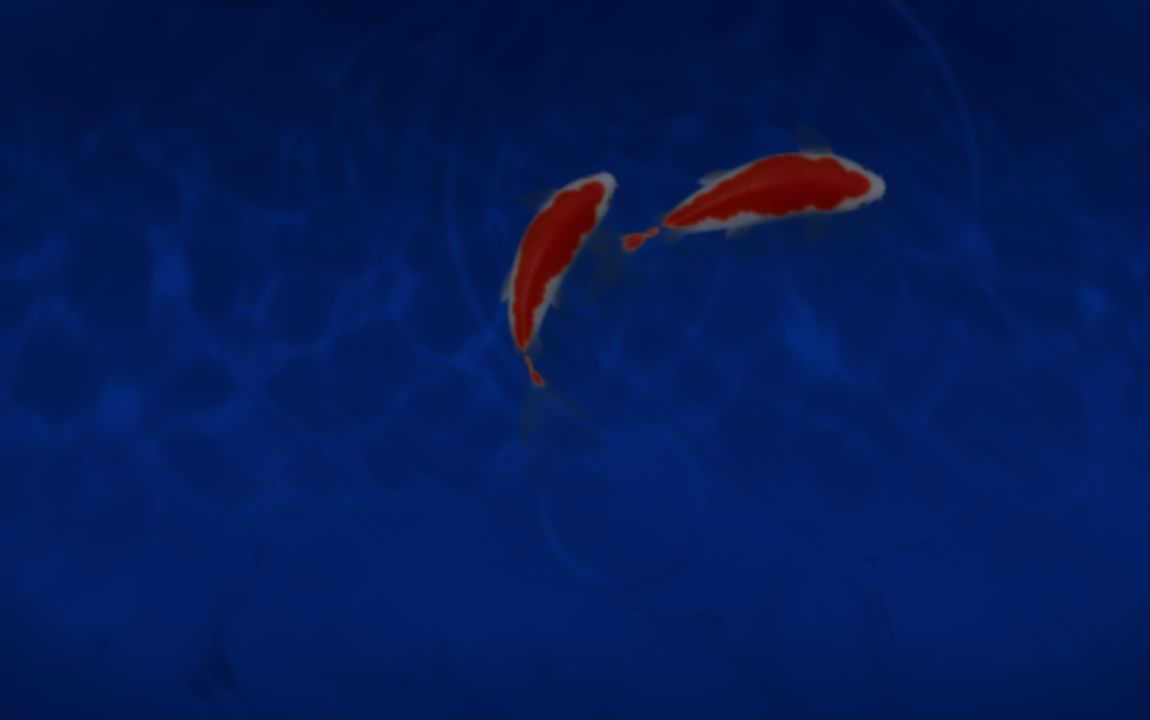
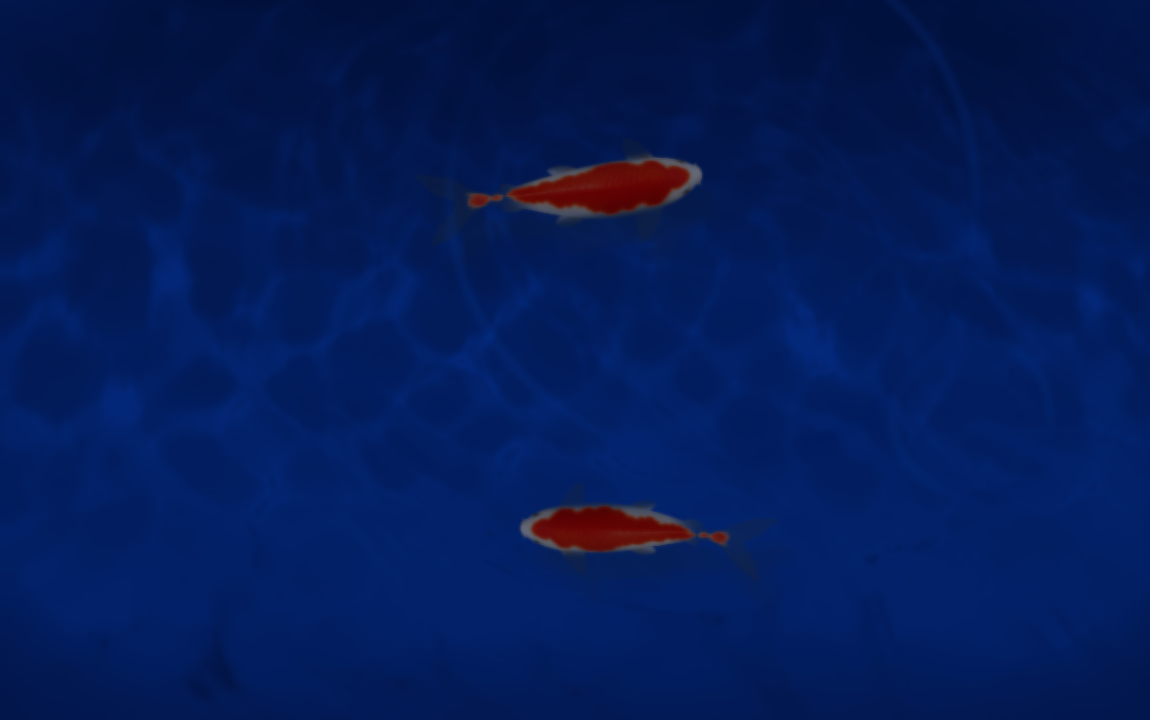
调整锦鲤浅色水面为中性白并优化游动避让与尺寸

Changed region(s): [[0.3957, 0.1833, 0.7913, 0.55], [0.4565, 0.7028, 0.6391, 0.7944], [0.6391, 0.7639, 0.6696, 0.7944]]

diff --git a/src/preload/home-koi/simulation.js b/src/preload/home-koi/simulation.js
@@ -36,13 +36,14 @@ export class Simulation {
     this.fish.length = Math.min(this.fish.length, count);
     while (this.fish.length < count) {
       const i = this.fish.length;
-      const x = (i === 0 ? 0.45 : i === 1 ? 0.65 : this.range(0.2, 0.8)) * this.width;
-      const y = (i === 0 ? 0.42 : i === 1 ? 0.86 : this.range(0.2, 0.8)) * this.height;
+      const x = (i === 0 ? 0.48 : i === 1 ? 0.64 : this.range(0.2, 0.8)) * this.width;
+      const y = (i === 0 ? 0.27 : i === 1 ? 0.75 : this.range(0.2, 0.8)) * this.height;
       const fish={
-        x, y, angle: i === 0 ? -0.55 : -2.0, turn: 0,
+        x, y, angle: i === 0 ? -0.12 : -Math.PI + 0.12, turn: 0,
+        lane: i % 2 === 0 ? 0.26 : 0.77,
         phase: this.range(0, TAU), rhythm: this.range(0.87, 1.12),
         wander: this.range(0, TAU), cycle: this.range(0, TAU),
-        cyclePeriod: this.range(3.8,7.2), effort: 0.5, velocity: 90,
+        cyclePeriod: this.range(5.5,8.5), effort: 0.5, velocity: 66,
         size: i === 0 ? 1 : this.range(0.87, 0.97),
         tx: this.range(0.15, 0.85) * this.width,
         ty: this.range(0.12, 0.88) * this.height,
@@ -63,8 +64,8 @@ export class Simulation {
     // Keep destinations in open water. Repeated forward targets on the edge
     // would trap a smooth-turning fish in a perimeter orbit.
     fish.tx=clamp(fish.x+Math.cos(angle)*distance,this.width*0.25,this.width*0.75);
-    fish.ty=clamp(fish.y+Math.sin(angle)*distance,this.height*0.25,this.height*0.75);
-    fish.retarget=this.range(6,11);
+    fish.ty=clamp(fish.y+Math.sin(angle)*distance,this.height*(fish.lane-0.10),this.height*(fish.lane+0.10));
+    fish.retarget=this.range(8,13);
   }
 
   resize(width, height) {
@@ -117,11 +118,24 @@ export class Simulation {
       const margin=Math.max(16,130*scale);
       dx+=1.8*(Math.pow(Math.max(0,(margin-aheadX)/margin),2)-Math.pow(Math.max(0,(aheadX-this.width+margin)/margin),2));
       dy+=1.8*(Math.pow(Math.max(0,(margin-aheadY)/margin),2)-Math.pow(Math.max(0,(aheadY-this.height+margin)/margin),2));
+      // Broad, overlapping home ranges let each fish wander without repeatedly
+      // steering both toward the middle of the pond.
+      dy+=clamp((fish.lane*this.height-fish.y)/(this.height*0.18),-1.7,1.7);
+      let encounter=0;
       for(const other of this.fish) {
         if(other===fish) continue;
-        const px=fish.x-other.x,py=fish.y-other.y,distance=Math.hypot(px,py);
-        const repel=Math.max(0,1-distance/(145*scale));
-        if(distance>0.001) { dx+=px/distance*repel*0.55;dy+=py/distance*repel*0.55; }
+        // Look ahead against the whole other body, not just its head. A smooth
+        // steering force starts before the turn radius makes avoidance too late.
+        const lead=fish.velocity*scale*1.8;
+        const fx=fish.x+Math.cos(fish.angle)*lead,fy=fish.y+Math.sin(fish.angle)*lead;
+        let nearest=Infinity,px=0,py=0;
+        for(let k=2;k<=22;k+=4) {
+          const bx=fx-other.spine[k*4],by=fy-other.spine[k*4+1],distance=Math.hypot(bx,by);
+          if(distance<nearest) { nearest=distance;px=bx;py=by; }
+        }
+        const repel=Math.max(0,1-nearest/(230*scale));
+        encounter=Math.max(encounter,repel);
+        if(nearest>0.001) { dx+=px/nearest*repel*2.4;dy+=py/nearest*repel*2.4; }
       }
       if (this.pointer) {
         const px = fish.x - this.pointer.x, py = fish.y - this.pointer.y;
@@ -129,31 +143,32 @@ export class Simulation {
         const repel = Math.max(0, 1 - distance / (160 * scale));
         if(distance>0.001) { dx+=px/distance*repel*1.2;dy+=py/distance*repel*1.2; }
       }
-      const exploration=Math.sin(this.time*0.37+fish.wander)*0.13
-        +Math.sin(this.time*0.81+fish.wander*1.7)*0.065;
+      const exploration=Math.sin(this.time*0.23+fish.wander)*0.10
+        +Math.sin(this.time*0.47+fish.wander*1.7)*0.045;
       const wanted=Math.atan2(dy,dx)+exploration;
       let headingError=angleDelta(fish.angle,wanted);
       // A target almost directly behind has two equivalent turn directions.
       // Keep the current arc instead of reversing yaw when that angle crosses π.
       if(Math.abs(headingError)>2.2&&Math.abs(fish.turn)>0.12) headingError=Math.sign(fish.turn)*Math.abs(headingError);
-      const wantedTurn=clamp(headingError*0.85,-0.66,0.66);
-      fish.turn+=clamp(wantedTurn-fish.turn,-0.8*motionDt,0.8*motionDt);
+      const wantedTurn=clamp(headingError*0.70,-0.56,0.56);
+      fish.turn+=clamp((wantedTurn-fish.turn)*(1-Math.exp(-motionDt/0.45)),-0.6*motionDt,0.6*motionDt);
       fish.angle+=fish.turn*motionDt;
       fish.cycle+=motionDt*TAU/fish.cyclePeriod;
-      if(fish.cycle>=TAU) { fish.cycle%=TAU;fish.cyclePeriod=this.range(3.8,7.2); }
-      fish.effort=Math.pow(0.5+0.5*Math.sin(fish.cycle),4.0);
+      if(fish.cycle>=TAU) { fish.cycle%=TAU;fish.cyclePeriod=this.range(5.5,8.5); }
+      fish.effort=Math.pow(0.5+0.5*Math.sin(fish.cycle),3.0);
       // Ease off propulsion near an edge so the head can complete a smaller arc.
       // The same velocity damping preserves a continuous glide into and out of it.
       const clearance=Math.min(fish.x,this.width-fish.x,fish.y,this.height-fish.y);
       const edgePace=clamp(clearance/(160*scale),0.35,1);
-      const targetVelocity=(62+85*fish.effort)*fish.rhythm*edgePace;
-      const response=targetVelocity>fish.velocity?0.42:0.95;
+      const turnPace=1-Math.min(0.35,Math.abs(fish.turn)*0.55);
+      const targetVelocity=(52+48*fish.effort)*fish.rhythm*edgePace*turnPace*(1-encounter*0.35);
+      const response=targetVelocity>fish.velocity?0.85:1.2;
       const change=(targetVelocity-fish.velocity)*(1-Math.exp(-motionDt/response));
-      fish.velocity+=clamp(change,-110*motionDt,110*motionDt);
+      fish.velocity+=clamp(change,-65*motionDt,65*motionDt);
       const velocity = fish.velocity * scale * speed;
       fish.x += Math.cos(fish.angle) * velocity * dt;
       fish.y += Math.sin(fish.angle) * velocity * dt;
-      fish.phase=(fish.phase+motionDt*TAU*(0.52+1.10*fish.effort)*fish.rhythm)%TAU;
+      fish.phase=(fish.phase+motionDt*TAU*(0.40+0.75*fish.effort)*fish.rhythm)%TAU;
       updateSpine(fish,FISH_LENGTH*fish.size,motionDt);
     }
   }

diff --git a/test/home-theme-renderer-browser.test.js b/test/home-theme-renderer-browser.test.js
@@ -55,17 +55,16 @@ it('renders the Koi Pond assets offline, moves fish and water, changes appearanc
       const stats = () => {
         const bytes = new Uint8Array(canvas.width * canvas.height * 4)
         gl.readPixels(0, 0, canvas.width, canvas.height, gl.RGBA, gl.UNSIGNED_BYTE, bytes)
-        let luma = 0, blue = 0, red = 0, paleCyan = 0, hash = 2166136261
+        let luma = 0, blue = 0, red = 0, neutralWater = 0, hash = 2166136261
         for (let i = 0; i < bytes.length; i += 4) {
           luma += .2126 * bytes[i] + .7152 * bytes[i + 1] + .0722 * bytes[i + 2]
           blue += bytes[i + 2] > bytes[i] * 1.3 ? 1 : 0
           red += bytes[i] > bytes[i + 2] * 1.2 && bytes[i] > 90 ? 1 : 0
-          paleCyan += bytes[i] >= 195 && bytes[i + 1] >= 215 && bytes[i + 2] >= 215 &&
-            bytes[i + 1] >= bytes[i] && bytes[i + 2] >= bytes[i] &&
-            Math.max(bytes[i], bytes[i + 1], bytes[i + 2]) - Math.min(bytes[i], bytes[i + 1], bytes[i + 2]) <= 45 ? 1 : 0
+          neutralWater += Math.min(bytes[i], bytes[i + 1], bytes[i + 2]) >= 210 &&
+            Math.max(bytes[i], bytes[i + 1], bytes[i + 2]) - Math.min(bytes[i], bytes[i + 1], bytes[i + 2]) <= 3 ? 1 : 0
           hash = Math.imul(hash ^ bytes[i], 16777619)
         }
-        return { luma: luma / (bytes.length / 4), blue, red, paleCyanFraction: paleCyan / (bytes.length / 4), hash }
+        return { luma: luma / (bytes.length / 4), blue, red, neutralWaterFraction: neutralWater / (bytes.length / 4), hash }
       }
       renderer.render(0, false)
       const first = stats()
@@ -86,7 +85,7 @@ it('renders the Koi Pond assets offline, moves fish and water, changes appearanc
     })
     expect(result.backend).toBe('webgl')
     expect(result.first.luma).toBeGreaterThan(210)
-    expect(result.first.paleCyanFraction).toBeGreaterThan(.85)
+    expect(result.first.neutralWaterFraction).toBeGreaterThan(.85)
     expect(result.first.red).toBeGreaterThan(1_000)
     expect(result.moving.hash).not.toBe(result.first.hash)
     expect(result.dark.luma).toBeLessThan(result.moving.luma * .65)

diff --git a/src/preload/home-koi/shaders.js b/src/preload/home-koi/shaders.js
@@ -25,9 +25,9 @@ void main() {
   color = mix(color, vec3(0.58, 0.96, 0.96), pow(1.0-v_uv.y, 8.0) * 0.20);
   color *= vec3(0.90, 0.97, 1.025);
   // Grade only the water, before compositing the red-and-white fish. Light
-  // mode keeps low-contrast cyan-white caustics beneath dark interface text.
+  // mode keeps neutral pearl-white caustics beneath dark interface text.
   float waterLight = clamp(color.g * 0.65 + color.b * 0.35 - color.r * 0.55, 0.0, 1.0);
-  vec3 dayWater = mix(vec3(0.80, 0.89, 0.90), vec3(0.96, 0.99, 0.985), pow(waterLight, 0.8));
+  vec3 dayWater = mix(vec3(0.87), vec3(0.99), pow(waterLight, 0.8));
   vec3 nightWater = mix(vec3(0.008, 0.055, 0.20), vec3(0.025, 0.31, 0.72), pow(waterLight, 1.25));
   color = mix(dayWater, nightWater, smoothstep(0.0, 0.78, u_dark));
   gl_FragColor = vec4(color, 1.0);
@@ -127,9 +127,10 @@ void main() {
   color += texture2D(u_scene, uv + vec2(0.0, blur.y)).rgb * 0.15;
   color += texture2D(u_scene, uv - vec2(0.0, blur.y)).rgb * 0.15;
   float shine = crests * u_strength;
-  vec3 crestColor = mix(vec3(0.94,1.0,0.98), vec3(0.035,0.38,0.80), smoothstep(0.0,0.78,u_dark));
+  vec3 crestColor = mix(vec3(0.99), vec3(0.035,0.38,0.80), smoothstep(0.0,0.78,u_dark));
   color = mix(color, crestColor, clamp(shine*0.26,0.0,0.34));
-  color -= vec3(0.025,0.05,0.06)*max(0.0,-dot(gradient,vec2(-0.5,0.6)))*0.45;
+  vec3 rippleShade = mix(vec3(0.035), vec3(0.025,0.05,0.06), smoothstep(0.0,0.78,u_dark));
+  color -= rippleShade*max(0.0,-dot(gradient,vec2(-0.5,0.6)))*0.45;
   color *= u_brightness;
   color = mix(color, color * vec3(0.32, 0.46, 0.70), u_dark);
   gl_FragColor = vec4(color, 1.0);

diff --git a/test/home-koi-simulation.test.js b/test/home-koi-simulation.test.js
@@ -1,0 +1,26 @@
+import {expect,it} from 'vitest'
+import {Simulation} from '../src/preload/home-koi/simulation.js'
+
+it.each([[1150,720],[920,600],[760,860]])('keeps two swimming bodies apart without abrupt turns at %sx%s', (width,height)=>{
+  for(const seed of [1,7,42,20261021]) {
+    const pond=new Simulation({width,height,seed})
+    let close=0,samples=0,travel=0
+    for(let frame=0;frame<60*180;frame++) {
+      const before=pond.fish.map(f=>({x:f.x,y:f.y,velocity:f.velocity,turn:f.turn}))
+      pond.step(1/60)
+      pond.fish.forEach((fish,i)=>{
+        expect(Math.abs(fish.velocity-before[i].velocity)*60).toBeLessThanOrEqual(65.001)
+        expect(Math.abs(fish.turn-before[i].turn)*60).toBeLessThanOrEqual(.601)
+        expect(Number.isFinite(fish.x+fish.y+fish.phase)).toBe(true)
+        travel+=Math.hypot(fish.x-before[i].x,fish.y-before[i].y)
+      })
+      if(frame%12)continue
+      const [a,b]=pond.fish;let distance=Infinity
+      for(let i=3;i<=21;i+=2)for(let j=3;j<=21;j+=2)distance=Math.min(distance,Math.hypot(a.spine[i*4]-b.spine[j*4],a.spine[i*4+1]-b.spine[j*4+1]))
+      if(distance<48)close++
+      samples++
+    }
+    expect(close/samples,`seed ${seed}: ${close} close samples`).toBeLessThan(.035)
+    expect(travel).toBeGreaterThan(5000)
+  }
+},20000)

diff --git a/src/preload/home-koi-renderer.ts b/src/preload/home-koi-renderer.ts
@@ -51,7 +51,7 @@ export function createKoiRenderer(canvas: HTMLCanvasElement, options: { dark: bo
   }
   canvas.addEventListener('webglcontextlost', contextLost)
   canvas.dataset.homeKoiState = 'loading'
-  context.clearColor(dark ? .01 : .88, dark ? .08 : .94, dark ? .25 : .94, 1)
+  context.clearColor(dark ? .01 : .94, dark ? .08 : .94, dark ? .25 : .94, 1)
   context.clear(context.COLOR_BUFFER_BIT)
   for (const image of images) {
     image.onload = loaded

diff --git a/src/preload/home-koi/spine.js b/src/preload/home-koi/spine.js
@@ -1,5 +1,5 @@
 export const SPINE_POINTS = 25;
-export const FISH_LENGTH = 365;
+export const FISH_LENGTH = 310;
 const angleDelta = (a,b) => Math.atan2(Math.sin(b-a),Math.cos(b-a));
 const smoothstep = (a,b,x) => {
   const t=Math.max(0,Math.min(1,(x-a)/(b-a)));

diff --git a/src/preload/home-koi/README.md b/src/preload/home-koi/README.md
@@ -1,24 +1,27 @@
 # 锦鲤水面 / Koi Pond
 
 移植自独立原型 `/Users/heyafeng/Documents/ChatGPT/koi-water-background`，提交
-`8c97117`。`renderer.js`、`simulation.js`、`spine.js` 原样保留；`shaders.js`
-按客户端浅色模式调整水底和波峰为青白色，调色在绘制鱼身之前完成，深色水面沿用原值。
+`8c97117`。`renderer.js` 保留原渲染管线；客户端调整 `simulation.js`、`spine.js` 的游动及尺寸，
+`shaders.js` 将浅色水底、波峰和波纹阴影改为无青色色相的中性珍珠白，调色在绘制鱼身之前完成，
+深色水面沿用原值。
 水底与透明鱼素材由内置 ImageGen 生成，来源说明见原型 `assets-provenance.md`；
 参考视频不进入客户端。客户端适配层仅负责图片加载、明暗参数、尺寸及资源释放；
 动画、隐藏页面暂停和减少动态效果均由现有首页控制器统一调度。
 
-鱼身固定 365 CSS 像素，改变窗口尺寸只改变水池和位置。明暗参数沿用原型批准值：
+鱼身基准长度 310 CSS 像素（原 365，缩小约 15%），改变窗口尺寸只改变水池和位置。
+两条鱼采用错开的宽活动范围，提前针对对方鱼身避让；转向、推进和滑行平滑衔接，
+急转和接近另一条鱼时柔和减速，不使用位置跳变强行分离。明暗参数沿用原型批准值：
 Light darkness=0 / brightness=1 / speed=1；Dark darkness=.78 / brightness=.9 / speed=.55。
 
 主题卡片最初使用 Figma 原图，文件 `Jkyr5rMvgM8GNH6E68xnqd`，组件集
 `2666:365341`；Light Current `2666:365318`，Dark Current `2666:365332`。
-浅色卡片随青白水面同步更新，由同一 WebGL 渲染器以 1150×720、seed=21、
-5 秒时刻导出；深色卡片继续使用 Figma 原图。
+浅色和深色卡片随水面及鱼身尺寸同步更新，由同一 WebGL 渲染器以 1150×720、
+seed=21、5 秒时刻按各自游速导出。
 卡片图片已存入 `../home-theme-assets/`，运行时完全离线，无外部素材请求。
 
 SHA-256：
 
 - water-plate.png: c4d4ecf4814cc58d34a3ff4245fe35f17b59b82fa11a13048f5e9a51507d7b8a
 - koi-sprite.png: f09f60860b35b385d29cd6224521e1f30763164c37464ad8f821a7861b3ebd9f
-- koi-pond-light.png: e0bd8ef02cc3eba0d1eb48aafc14145a09458bb6f7768800511f8ee962db4e98
-- koi-pond-dark.png: ace6def24270e1346488d1889b54829fd6ee734bf9f37ce985c0d143c36ef059
+- koi-pond-light.png: 14d116b8c248f316bd121eb9e169ab5084d9133b741fbe79dc0c5bed4b1c66cc
+- koi-pond-dark.png: 39470ea62f3af2e399e1f758c847f16b2b3a3ab3869cbf9e9bc737c0ac0b0c35
